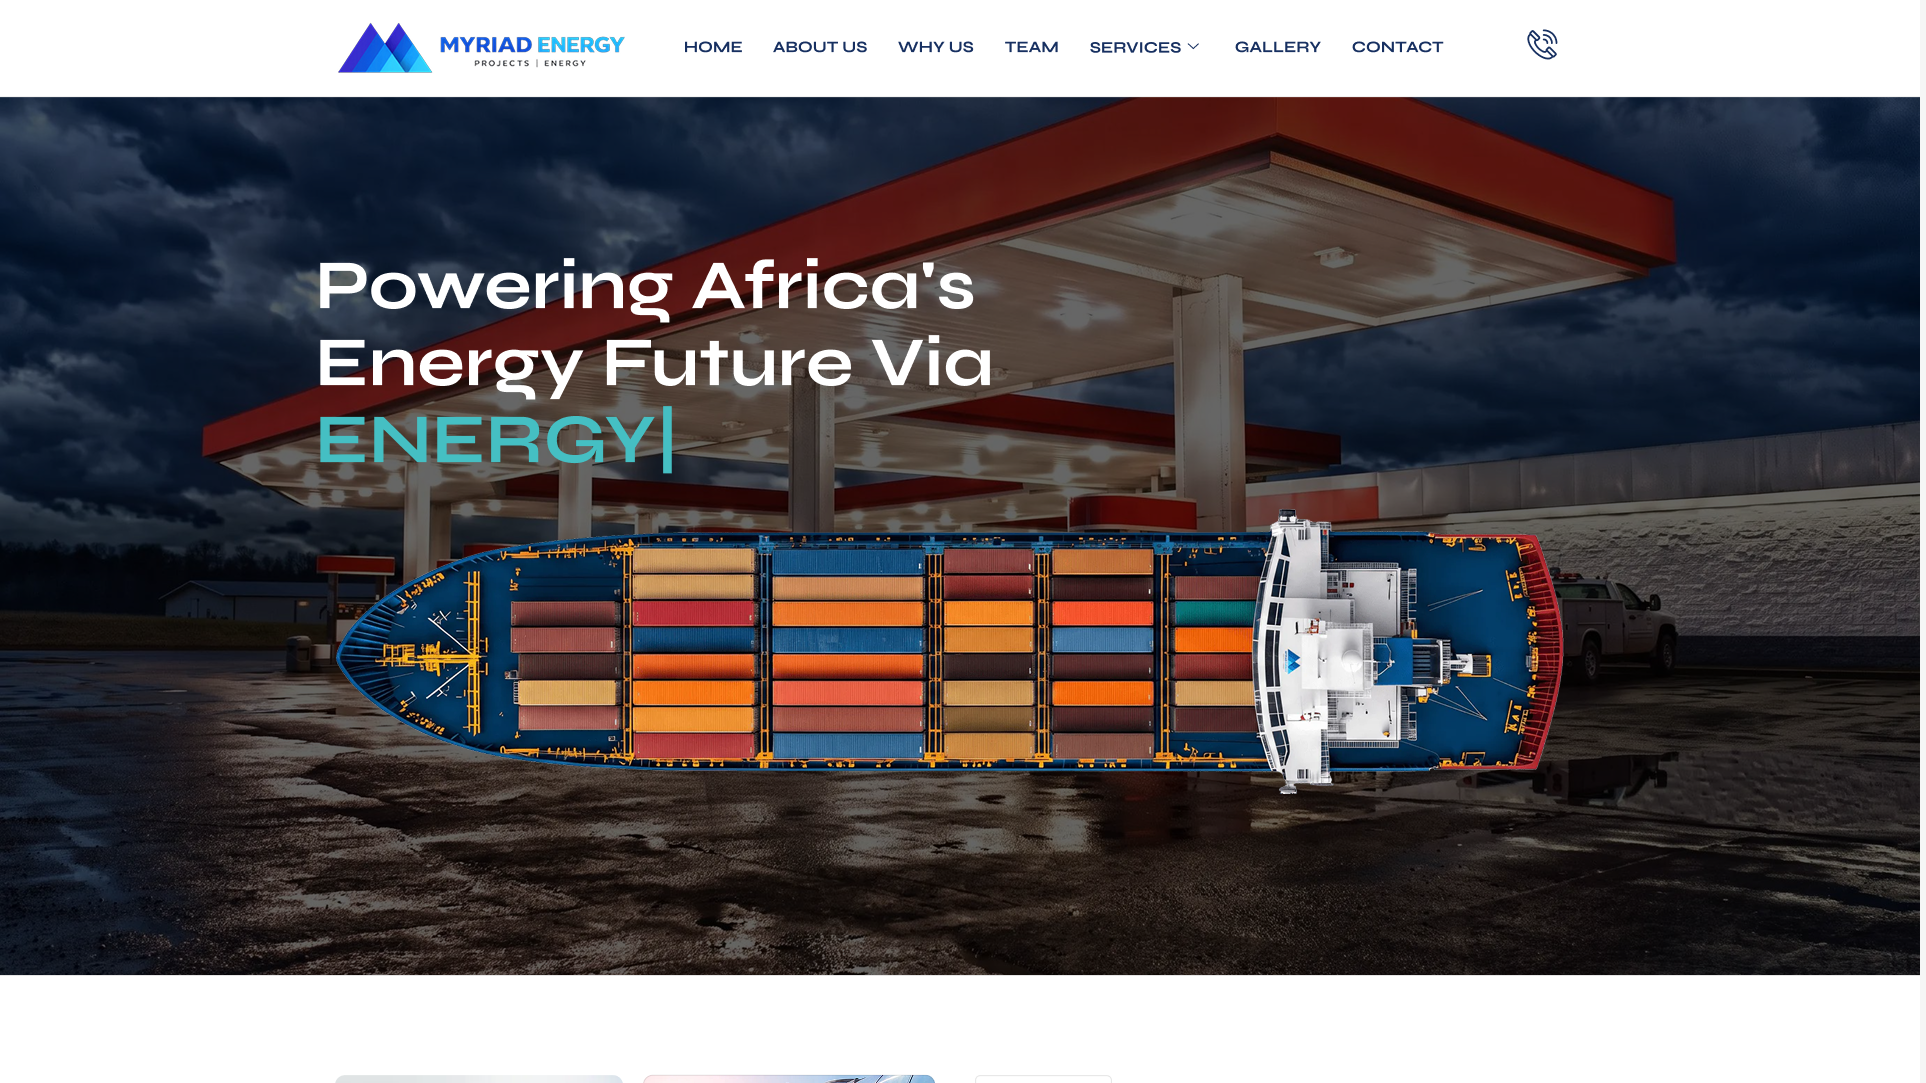
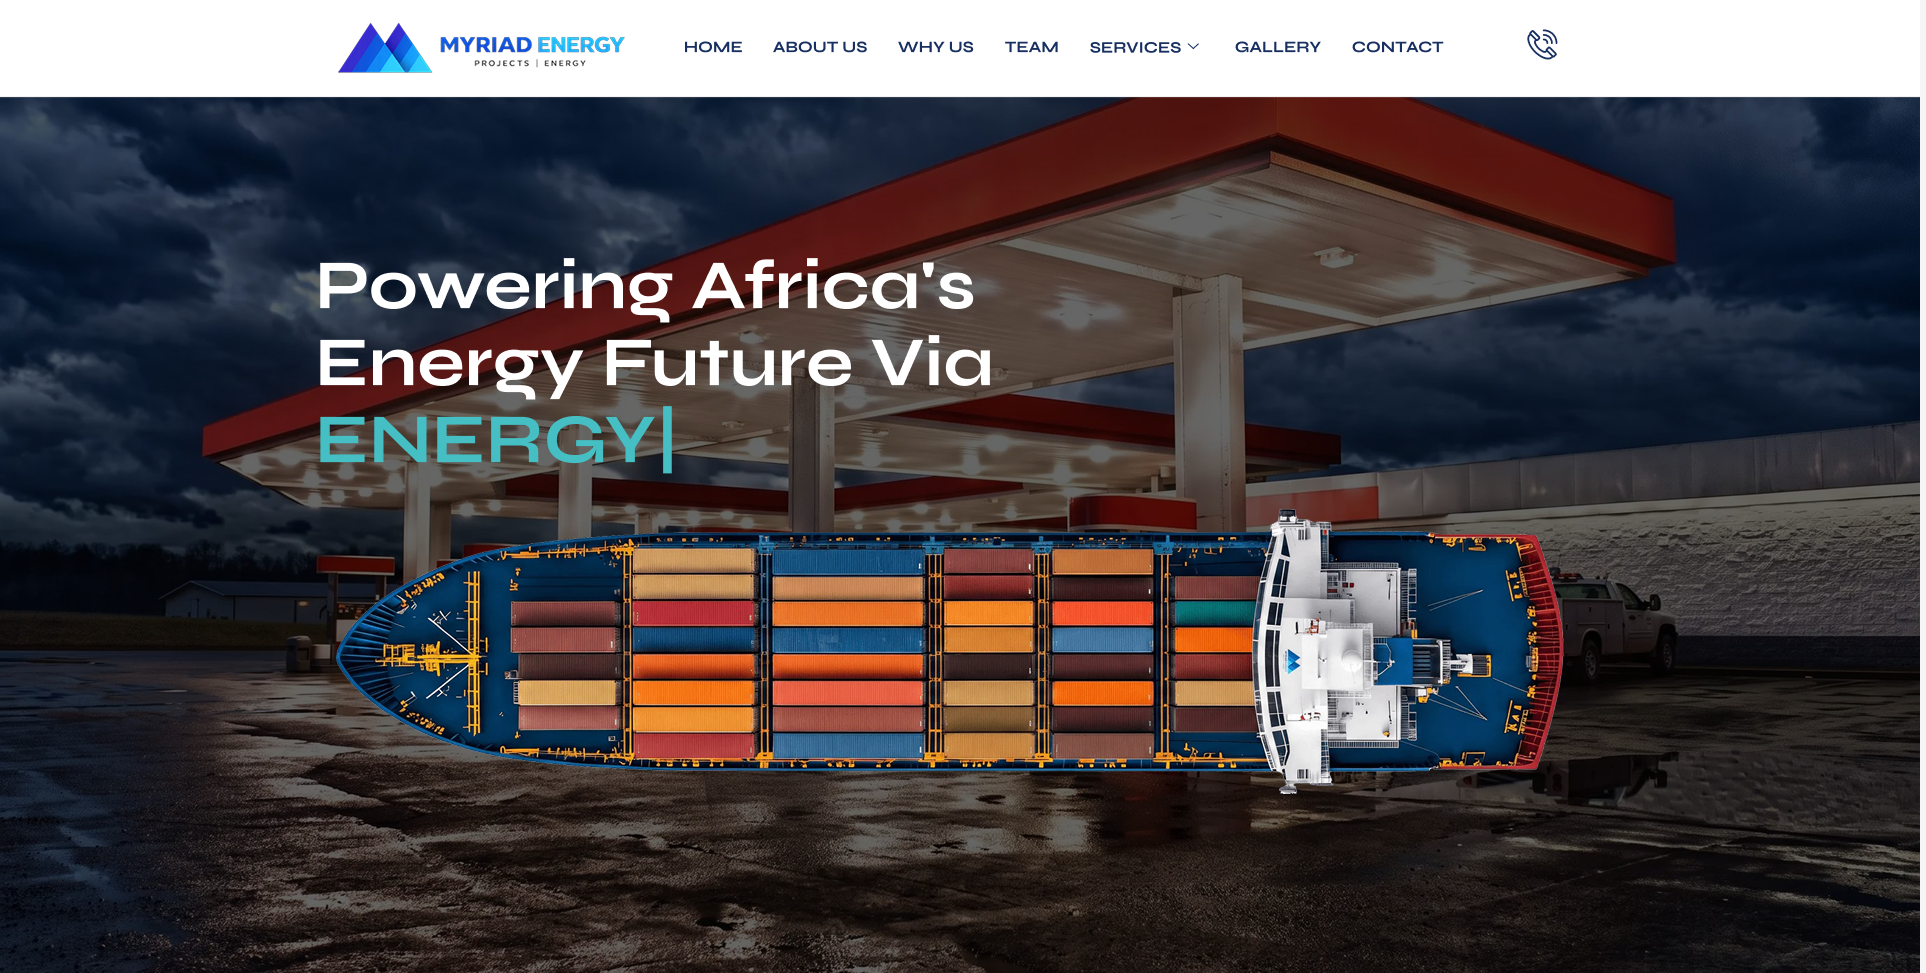
Add accent colors for sections and enhance image display for project cards

diff --git a/index.html b/index.html
@@ -352,7 +352,7 @@
                         <span class="w-2.5 h-2.5 rounded-full bg-green-400"></span>
                         <span class="ml-3 font-mono text-[11px] text-[var(--muted)] truncate">myriadprojectsenergy.com</span>
                     </div>
-                    <img class="w-full" src="assets/myriad-energy.png" alt="Myriad Energy website screenshot">
+                    <img class="w-full aspect-[16/9] object-cover object-top" src="assets/myriad-energy.png" alt="Myriad Energy website screenshot">
                 </div>
                 <div class="flex items-center justify-between mt-4 mb-1">
                     <span class="eyebrow">Energy &amp; Engineering</span>
@@ -376,7 +376,7 @@
                         <span class="w-2.5 h-2.5 rounded-full bg-green-400"></span>
                         <span class="ml-3 font-mono text-[11px] text-[var(--muted)] truncate">shaybanaturals.com</span>
                     </div>
-                    <img class="w-full" src="assets/shayba-naturals.png" alt="Shayba Naturals website screenshot">
+                    <img class="w-full aspect-[16/9] object-cover object-top" src="assets/shayba-naturals.png" alt="Shayba Naturals website screenshot">
                 </div>
                 <div class="flex items-center justify-between mt-4 mb-1">
                     <span class="eyebrow">Beauty &amp; Skincare</span>

diff --git a/app.css b/app.css
@@ -15,6 +15,14 @@
     --signal: #FF6A3D;
     --signal-dim: rgba(255, 106, 61, 0.12);
 
+    /* Section accents — one hue per sheet, flat color, no blends */
+    --accent-about: #FF6A3D;      /* orange   */
+    --accent-work-hist: #2DD4BF;  /* teal     */
+    --accent-stack: #F5B942;      /* amber    */
+    --accent-services: #A78BFA;   /* violet   */
+    --accent-projects: #38BDF8;   /* sky blue */
+    --accent-contact: #FB7185;    /* rose     */
+
     --font-display: 'Big Shoulders Display', sans-serif;
     --font-body: 'Space Grotesk', sans-serif;
     --font-mono: 'Fira Code', monospace;
@@ -69,6 +77,27 @@ body {
     font-size: 11px;
     letter-spacing: 0.1em;
     color: var(--muted);
+}
+
+/* Skill / tech tag pill */
+.tag {
+    display: inline-block;
+    font-family: var(--font-mono), monospace;
+    font-size: 11px;
+    letter-spacing: 0.04em;
+    color: var(--text);
+    background: var(--panel-2);
+    border: 1px solid var(--line);
+    padding: 4px 10px;
+    border-radius: 999px;
+}
+
+/* Company / role timeline connector */
+.timeline-dot {
+    width: 9px;
+    height: 9px;
+    border-radius: 50%;
+    flex-shrink: 0;
 }
 
 /* Scroll-reveal system — respects reduced motion */
